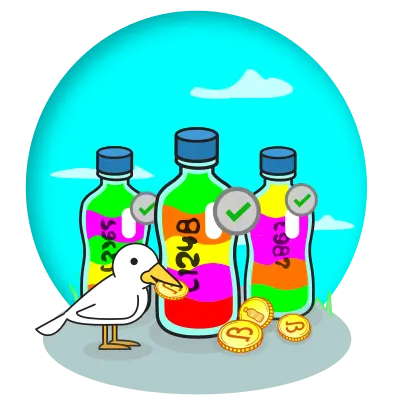
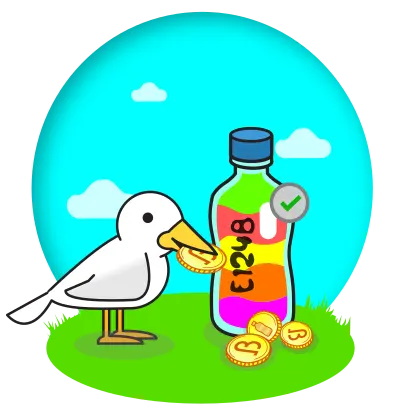
up

diff --git a/drop-off.php b/drop-off.php
@@ -236,7 +236,7 @@ margin-bottom: 31px;}
 		<div class="splash-heading">The Brik Market</div>
 	    <div class="splash-sub">Drop off, sell, buy or trade ecobricks. Or offer your space as a community exchange hub and earn by receiving ecobricks.</div>
 	</div>
-	<div class="splash-image"><img src="webp/brikmarket-400px.webp?v1.1" style="width: 80%">
+	<div class="splash-image"><img src="webp/brikmarket-400px.webp?v1.2" style="width: 80%">
     </div>	
 </div>
 <div id="splash-bar"></div>
@@ -253,7 +253,7 @@ margin-bottom: 31px;}
 		<div class="main">
 
 			<div class="lead-page-paragraph">
-				<p>The Brik Market is a new service to facilitate the trade of ecobricks among ecobrickers, projects, businesses and communities.</p>
+				<p>For EarthDay 2022, the Global Ecobrick Alliance is excited to launch the new Brik Market: the place to trade, buy and sell ecobricks with ecobrickers and community hubs around the world.</p>
     
 			</div>
 			
